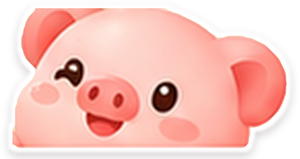
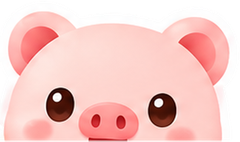
Add files via upload

diff --git a/index.html b/index.html
@@ -21,7 +21,7 @@
   <!-- หน้าเชื่อมต่อครั้งแรก: กรอกลิงก์ + โทเค็น แล้วเก็บไว้ในเครื่องนี้เท่านั้น (ไม่อยู่บน GitHub) -->
   <div id="setupScreen" class="setup-screen" hidden>
     <div class="setup-card">
-      <div class="setup-logo"><img src="img/pig-hug.png" alt="" class="setup-pig"></div>
+      <div class="setup-logo"><img src="img/pig-sit.png" alt="" class="setup-pig"></div>
       <h1>เชื่อมต่อกับ Google Sheet</h1>
       <p>กรอก 2 ค่าที่ได้จาก Apps Script ครั้งเดียว แอปจะจำไว้ในเครื่องนี้</p>
 
@@ -47,7 +47,10 @@
 
     <header class="app-header">
       <div class="header-top">
-        <div class="app-title">🐷 Moo Mee Tang</div>
+        <div class="brand">
+          <img class="brand-logo" src="icons/icon-192.png" alt="">
+          <img class="brand-word" src="img/wordmark.png" alt="หมูมีตัง">
+        </div>
         <button id="syncBtn" class="sync-btn" title="ซิงก์ข้อมูล">⟳</button>
       </div>
       <div id="syncStatus" class="sync-status">กำลังเริ่มระบบ...</div>
@@ -79,7 +82,7 @@
           <button id="clearDayFilterBtn" class="chip-btn">ดูทั้งเดือน</button>
         </div>
         <div id="dayList" class="day-list"></div>
-        <img id="homeEmptyPig" class="empty-pig mascot mascot-tap" src="img/pig-cheer.png" alt="" hidden>
+        <img id="homeEmptyPig" class="empty-pig mascot mascot-tap" src="img/pig-sleep.png" alt="" hidden>
         <div id="homeEmpty" class="empty-state" hidden>ยังไม่มีรายการในเดือนนี้ กดปุ่ม ✏ เพื่อเริ่มบันทึก</div>
       </section>
 
@@ -113,7 +116,10 @@
           <div><span>สุทธิ</span><b id="allNetTotal">฿0</b></div>
         </div>
 
-        <div id="chartHost" class="chart-host"></div>
+        <div class="chart-wrap">
+          <img class="analysis-pig mascot mascot-tap" src="img/pig-think.png" alt="">
+          <div id="chartHost" class="chart-host"></div>
+        </div>
         <div id="analysisList" class="analysis-list"></div>
         <div id="analysisEmpty" class="empty-state" hidden>ยังไม่มีข้อมูลในเดือนนี้</div>
       </section>
@@ -121,7 +127,7 @@
       <!-- เพิ่มเติม: เมนูไอคอน + หน้าย่อย -->
       <section id="tab-more" class="tab-panel">
         <div id="moreHello" class="more-hello mascot">
-          <img class="mascot-tap" src="img/pig-cheer.png" alt="">
+          <img class="mascot-tap" src="img/pig-wave.png" alt="">
           <div><b>สวัสดีค่ะ</b><span>เก็บทีละนิด... ชีวิตดีขึ้นแน่นอน 💚</span></div>
         </div>
         <div id="moreMenu" class="more-menu"></div>
@@ -166,7 +172,7 @@
         <div class="more-page" data-page="about" hidden>
           <button class="back-btn" data-back="1">‹ เพิ่มเติม</button>
           <h2 class="page-title"><img class="title-pig mascot" src="img/pig-peek.png" alt="">เกี่ยวกับ</h2>
-        <img class="about-pig mascot mascot-tap" src="img/pig-hug.png" alt="">
+        <img class="about-pig mascot mascot-tap" src="img/pig-cheer.png" alt="">
         <p class="about-text">
           แอปนี้เก็บข้อมูลไว้ในเครื่องด้วย จึงเปิดดูและบันทึกรายการได้แม้ไม่มีเน็ต
           รายการที่บันทึกตอนออฟไลน์จะเข้าคิวไว้ แล้วส่งขึ้น Google Sheet ให้อัตโนมัติเมื่อกลับมามีเน็ต

diff --git a/style.css b/style.css
@@ -492,3 +492,36 @@ html.no-mascot .modal-pig{display:none;}
 #txModal.type-transfer #txAmount,#txModal.type-transfer select{border-color:color-mix(in srgb, var(--transfer) 55%, var(--border));}
 .transfer-arrow{color:var(--transfer);}
 .tx-amount.transfer{color:var(--transfer);}
+
+/* ===== v10: ส่วนหัวแบบโลโก้ ===== */
+.app-header{overflow:hidden;}
+.app-header::before{content:"";position:absolute;inset:0;pointer-events:none;opacity:.9;
+  background:
+    radial-gradient(circle at 78% 22%, rgba(255,214,90,.55) 0 5px, transparent 6px),
+    radial-gradient(circle at 88% 48%, rgba(255,255,255,.35) 0 3px, transparent 4px),
+    radial-gradient(circle at 66% 12%, rgba(255,255,255,.3) 0 2.5px, transparent 3.5px),
+    radial-gradient(circle at 94% 16%, rgba(255,214,90,.45) 0 3.5px, transparent 4.5px),
+    radial-gradient(120% 60% at 100% 0%, rgba(255,255,255,.14), transparent 60%);}
+.app-header > *{position:relative;}
+.brand{display:flex;align-items:center;gap:10px;min-width:0;}
+.brand-logo{width:44px;height:44px;border-radius:13px;box-shadow:0 3px 10px rgba(0,0,0,.25);border:2px solid rgba(255,255,255,.85);flex-shrink:0;}
+.brand-word{height:44px;width:auto;filter:drop-shadow(0 3px 5px rgba(0,0,0,.22));}
+.sync-status{margin-top:8px;}
+
+/* ===== v10: หมูหน้าวิเคราะห์ ===== */
+.chart-wrap{position:relative;}
+.analysis-pig{position:absolute;right:-4px;top:-6px;width:92px;z-index:1;animation:pig-bob 3.2s ease-in-out infinite;
+  filter:drop-shadow(0 4px 6px rgba(0,0,0,.15));}
+.empty-pig{width:130px;}
+@media (prefers-reduced-motion:reduce){.analysis-pig{animation:none;}}
+
+/* ===== v11: ขนาดหมูชุดสติกเกอร์ใหม่ (มีขอบขาวในรูปอยู่แล้ว) ===== */
+.pig-home{width:104px;right:10px;top:6px;}
+.pig-assets{width:96px;right:8px;top:6px;}
+.empty-pig{width:160px;margin:30px auto -10px;}
+.analysis-pig{width:84px;}
+.more-hello img{width:76px;}
+.about-pig{width:140px;}
+.modal-pig{width:92px;top:-48px;}
+.title-pig{width:70px;}
+.pig-deco,.empty-pig,.about-pig,.more-hello img,.analysis-pig,.modal-pig,.title-pig{filter:drop-shadow(0 3px 6px rgba(0,0,0,.18));}

diff --git a/app.js b/app.js
@@ -8,7 +8,7 @@
  *  4. หลังส่งคิวสำเร็จ จะดึงข้อมูลจริงจากชีตมาทับ เพื่อให้ตัวเลขตรงกับชีตเสมอ (ชีตคือความจริง)
  */
 
-var APP_VERSION = '2026-10-15-pwa-9';
+var APP_VERSION = '2026-10-15-pwa-11';
 
 // ค่าทั่วไปจาก config.js (ไม่มีความลับ) + ลิงก์/โทเค็นที่โหลดจากเครื่องตอนเริ่มระบบ
 var CONFIG = window.MOO_MEE_TANG_CONFIG || {};
@@ -1292,6 +1292,7 @@ function renderMoreMenu() {
 function openMorePage(name) {
   state.morePage = name;
   $('moreMenu').hidden = !!name;
+  $('moreHello').hidden = !!name;
   document.querySelectorAll('.more-page').forEach(function (p) { p.hidden = p.dataset.page !== name; });
   if (name === 'settings') {
     $('hapticsToggle').checked = prefOn(HAPTICS_KEY);

diff --git a/service-worker.js b/service-worker.js
@@ -9,7 +9,7 @@
  */
 
 // เปลี่ยนเลขเวอร์ชันนี้ทุกครั้งที่แก้ไฟล์หน้าตาแอป เพื่อบังคับให้เครื่องโหลดของใหม่
-const CACHE_NAME = 'moo-mee-tang-v9';
+const CACHE_NAME = 'moo-mee-tang-v11';
 
 const APP_SHELL = [
   './',
@@ -18,10 +18,15 @@ const APP_SHELL = [
   './config.js',
   './app.js',
   './icons.js',
-  './img/pig-hug.png',
   './img/pig-card.png',
+  './img/pig-hug.png',
+  './img/pig-sleep.png',
+  './img/pig-wave.png',
+  './img/pig-think.png',
   './img/pig-cheer.png',
+  './img/pig-sit.png',
   './img/pig-peek.png',
+  './img/wordmark.png',
   './manifest.json',
   './icons/icon-180.png',
   './icons/icon-192.png',
